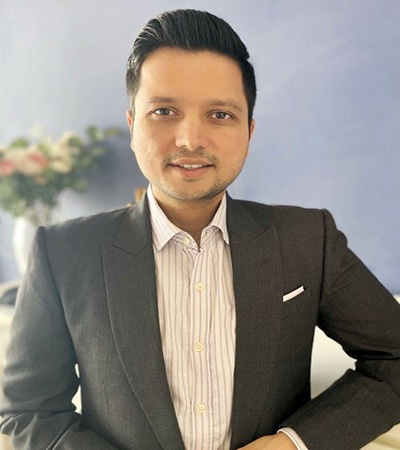
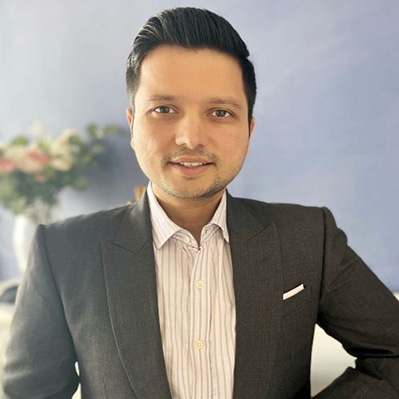
Push May 2022

diff --git a/index.html b/index.html
@@ -21,6 +21,8 @@
     <link rel="stylesheet" href="assets/css/style.css">
     <!-- responsive css  -->
     <link rel="stylesheet" href="assets/css/responsive.css">
+    <!-- gif favicon -->
+     <link rel="icon" href="assets/img/icon/favicon.gif" type="image/gif">
 
 </head>
 <body>
@@ -34,8 +36,8 @@
                         <h1 class="cd-headline loading-bar">
                             <span>We are</span>
                             <span class="cd-words-wrapper">
-                                <b class="is-visible">CORE91.VC</b>
-                              <!--  <b>B2B SaaS Builders</b>
+                              <img src="assets/img/logo/top-logo.png" alt="">
+                              <!--  <b class="is-visible">CORE91.VC</b> <b>B2B SaaS Builders</b>
                                 <b>1st Check Partner</b> -->
                             </span>
                         </h1>
@@ -80,7 +82,7 @@
     <!-- check-section html start in here -->
     <div class="check_box black-bg">
         <div class="container">
-          <h3 class="brand_titel">We help super charge your growth with</h3>
+        <h2 class="brand_titel">We want to be part of your journey as you mature from T20s to One Days and Tests.  While we may not be able to face the googlies for you, we will be right beside you on the non striker’s end. We will be the sounding boards, connectors, evangelists and critiques to help you perform your best.</h2>
 
             <div class="row">
                 <div class="col-lg-3 col-md-6">
@@ -199,53 +201,64 @@
                 </div>
             </div>
             <div class="row">
-                <div class="col-lg-4 col-md-4">
+                <div class="col-lg-3 col-md-3">
                     <div class="team_item text-center">
                         <div class="team_img pos-r">
                             <img src="assets/img/team-img/1.jpg " alt="">
 
                             <ul class="team-social">
-                                <li><a href="#"><i class="fab fa-facebook-f"></i></a></li>
-                                <li><a href="#"><i class="fab fa-twitter"></i></a></li>
-                                <li><a href="#"><i class="fab fa-instagram"></i></a></li>
+                              <li><a href="https://www.linkedin.com/in/shalinsshahBronxville"><i class="fab fa-linkedin"></i></a></li>
+                              <li><a href="https://twitter.com/shalinsshah"><i class="fab fa-twitter"></i></a></li>
                             </ul>
                         </div>
                         <h3><a href="#">Shalin Shah</a></h3>
                         <h4>Partner</h4>
-                        <p>Shalin has been a career finance professional and investor with a special interest in early stage startup investing - some of the notable investments include coinbase and zoom.&nbsp;
-                        Past: Vice President @ Piramal/IndUS Growth Partners, Hedge Fund @ DCM Partners.</p>
+                        <p>Grew up in NY, Shalin brings the accent with him. He barely survived Biomedical and Mechanical Engineering at Carnegie Mellon where he was in the founding team of a medical device startup, measuring intracranial pressure non-invasively. While working at hedge funds and in private equity at DCM Partners, Indus Growth Partners and Piramal Group he found more excitement in helping founders both in the US and India. Initially he only could offer time, until he built some savings to invest in their startups. His first angel investment became a $100B IPO, but he missed a dozen “right in front of my nose" unicorns.</p>
                     </div>
                 </div>
 
-                <div class="col-lg-4 col-md-4">
+                <div class="col-lg-3 col-md-3">
                     <div class="team_item text-center">
                         <div class="team_img bl pos-r">
                             <img src="assets/img/team-img/2.jpg" alt="">
                             <ul class="team-social">
-                                <li><a href="#"><i class="fab fa-facebook-f"></i></a></li>
-                                <li><a href="#"><i class="fab fa-twitter"></i></a></li>
-                                <li><a href="#"><i class="fab fa-instagram"></i></a></li>
+                              <li><a href="https://www.linkedin.com/in/ACoAAAMlsvwBf1m7w0o1QGsA5RlG-eQK9JNrDDE/?lipi=urn%3Ali%3Apage%3Ad_flagship3_feed%3Bv1AJxWUnSQmjusDRlBbJ3g%3D%3D"><i class="fab fa-linkedin"></i></a></li>
+                              <li><a href="https://twitter.com/Keshavmjn"><i class="fab fa-twitter"></i></a></li>
                             </ul>
                         </div>
                         <h3><a href="#" class="bl-text" >Keshav Jain</a></h3>
                         <h4>Venture Partner</h4>
-                        <p>Keshav Jain is a finance professional with over a decade of experience in financing companies across their capital stack. In his last stint, Keshav helped co-found NeoDx, a molecular diagnostics venture.</p>
+                        <p>When we first met Keshav we discovered an excel guru out of place amongst the army of real estate investors. He worked in high street fashion and banking but knew everything that VCcircle had to write on startups. Soon after he founded a profitable molecular diagnostics startup, NeoDx, we roped him in to help us at Core91. We made the mistake of offering him instant coffee and he decided he’d bring his coffee-religion to us.</p>
                     </div>
                 </div>
 
-                <div class="col-lg-4 col-md-4">
+                <div class="col-lg-3 col-md-3">
                     <div class="team_item text-center">
                         <div class="team_img gr pos-r">
-                            <img src="assets/img/team-img/3.jpg" alt="">
+                            <img src="assets/img/team-img/3.png" alt="">
                             <ul class="team-social">
-                                <li><a href="#"><i class="fab fa-facebook-f"></i></a></li>
-                                <li><a href="#"><i class="fab fa-twitter"></i></a></li>
-                                <li><a href="#"><i class="fab fa-instagram"></i></a></li>
+                                <li><a href="https://www.linkedin.com/in/amans91/?originalSubdomain=in"><i class="fab fa-linkedin"></i></a></li>
+                                <li><a href="https://twitter.com/aman_s91"><i class="fab fa-twitter"></i></a></li>
                             </ul>
                         </div>
-                        <h3><a href="#" class="gr-text">Lorem ipsum.</a></h3>
-                        <h4>Lorem ipsum dolor.</h4>
-                        <p>Lorem ipsum dolor sit amet consectetur adipisicing elit. Nisi consectetur.Lorem ipsum dolor sit amet. praesentium explicabo, veritatis at culpa, libero aperiam quaerat, quo rerum pariatur ipsa officia</p>
+                        <h3><a href="#" class="gr-text">Aman Singhal</a></h3>
+                        <h4>Founder @ Kluster</h4>
+                        <p>We first met Aman while he was building 2-wheeler servicing startup, Drivojoy from the ground up, raising capital from top investors including Kunal Shah. We believed he was a strong founder and helped him with his model and a few investor introductions. The startup didn’t scale so he went on to work in senior roles at Halodoc as a PM and Growth at Swiggy before we pulled him into Core91 to explore edtech. We then committed the first check in his latest startup, Kluster. Aman graduated from IIT-Bombay.</p>
+                    </div>
+                </div>
+
+                <div class="col-lg-3 col-md-3">
+                    <div class="team_item text-center">
+                        <div class="team_img gr pos-r">
+                            <img src="assets/img/team-img/4.png" alt="">
+                            <ul class="team-social">
+                              <li><a href="https://www.linkedin.com/in/manjotpahwa/"><i class="fab fa-linkedin"></i></a></li>
+                              <li><a href="https://twitter.com/manjotpahwa"><i class="fab fa-twitter"></i></a></li>
+                            </ul>
+                        </div>
+                        <h3><a href="#" class="gr-text">Manjot Pawha</a></h3>
+                        <h4>Lightspeed, Ex-Stripe India Head</h4>
+                        <p>Xooglers that worked in Mountain View have a special sauce that must come directly from their Michelin star cafeterias, so when we were introduced to Manjot, we were happy to help her find her calling while she helped us understand internet infrastructure. She started as an engineer in the Google Photos team and left as a PM in their Kubernetes team before exploring starting up herself. She then led Stripe in India before joining a superstar fund, Lightspeed.</p>
                     </div>
                 </div>
 

diff --git a/assets/css/style.css b/assets/css/style.css
@@ -503,7 +503,7 @@ body {
 
 .brand_titel {
 	text-align: center;
-	font-size: 16px;
+	font-size: 20px;
 	color: #fff;
 	margin-bottom: 70px;
 }
